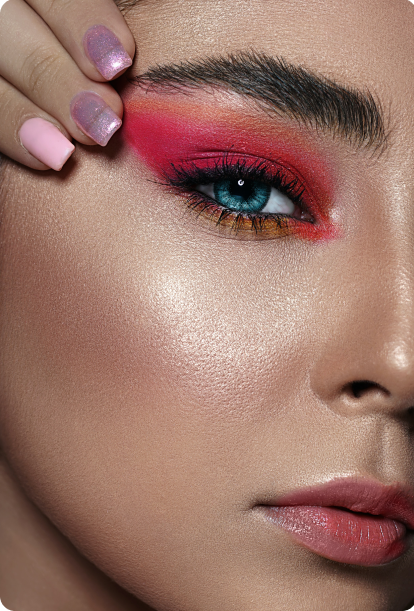
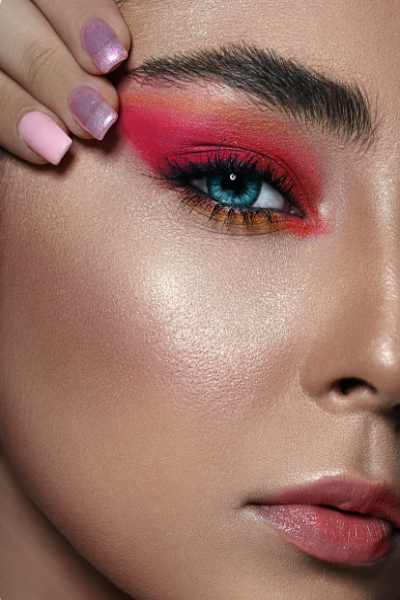
design modification

diff --git a/assets/css/style.css b/assets/css/style.css
@@ -165,7 +165,7 @@ ul{
 	max-width: 100%;
 	max-height: 600px;
 	border-radius: 15px;
-	height: 100%;
+	/* height: 100%; */
 }
 .banner_img_item {
 	position: relative;
@@ -1003,13 +1003,36 @@ color: #FFFFFF;
         max-width: 70%;
         height: auto;
     }
+
+    .banner-img{
+        grid-template-columns: 1fr;
+    }
+    .banner_img_item a img {
+        max-width: 100%;
+        width: 100%;
+        height: auto;
+    }
+    .notice_bar_wrapper {
+        grid-template-columns: 1fr;
+        grid-row-gap: 10px;
+        text-align: center;
+    }
+    .best_selling_img{
+        grid-template-columns:1fr;
+    }
+    .best_image_box > a {
+        display: block;
+    }
+    .best_image_box > a > img {
+        max-width: 100%;
+        width: 100%;
+        height: auto;
+    }
+
 }
 
 
 @media only screen and (max-width: 517px){
-    .notice_bar{
-        display: none;
-    }
     #main-menu{
         padding: .5rem 0;
     }
